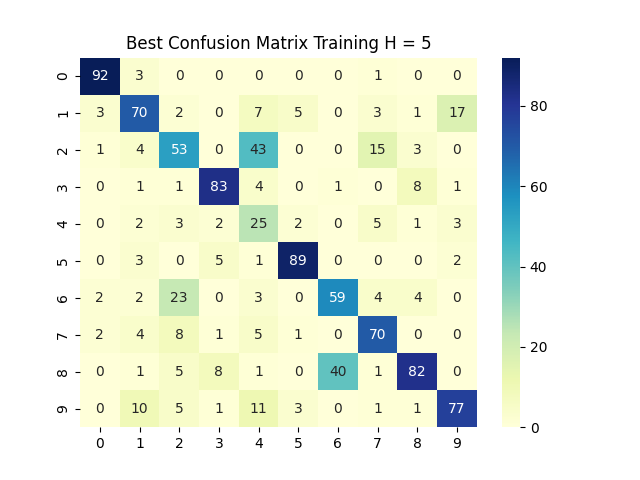
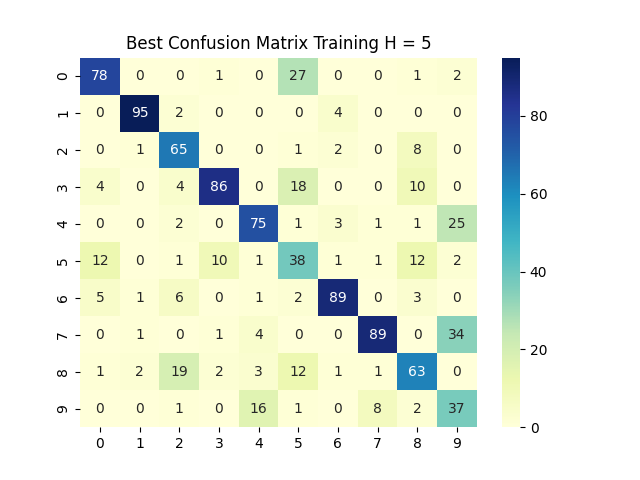
Oh my bug...

diff --git a/HW3/multi_layer.py b/HW3/multi_layer.py
@@ -37,7 +37,7 @@ def accuracy_confusion_matrix(x):
 
 
 def one_hot_encode(y):
-    return np.transpose(np.eye(10)[y-1])
+    return np.transpose(np.eye(10)[y])
 
 
 def one_hot_decode(y):
@@ -140,6 +140,8 @@ for H in Hs:
                 for i in range(K):
                     summa += (r_t[i] - y_matrix[instance][i])*v_matrix[h,i]
                 delta_w_matrix[:,h] = learning_rate*summa*z[h+1]*(1-z[h+1])*x_t
+                # delta_w_matrix[:,h] = learning_rate*np.dot((r_t - y_matrix[instance]),np.transpose(v_matrix[h,:]))*z[h+1]*(1-z[h+1])*x_t
+                # not sure about this line so I will comment it out
             
             for i in range(K):
                 v_matrix[:,i] += delta_v_matrix[:,i]
@@ -193,9 +195,9 @@ for H in Hs:
         confusion_matrix_test     = np.zeros((K,K))
 
         for t in range(N):
-            confusion_matrix_training[np.argmax(y_matrix[t])][R.iloc[t]-1] += 1
+            confusion_matrix_training[np.argmax(y_matrix[t])][R.iloc[t]] += 1
         for t in range(N_test):
-            confusion_matrix_test[np.argmax(y_matrix_test[t])][R_test.iloc[t]-1] += 1
+            confusion_matrix_test[np.argmax(y_matrix_test[t])][R_test.iloc[t]] += 1
 
         accuracy_training = accuracy_confusion_matrix(confusion_matrix_training)
         accuracy_test     = accuracy_confusion_matrix(confusion_matrix_test)

diff --git a/HW3/single_layer.py b/HW3/single_layer.py
@@ -28,7 +28,7 @@ def softmax(x):
     return e_x / e_x.sum()
    
 def one_hot_encode(y):
-    return np.transpose(np.eye(10)[y-1])
+    return np.transpose(np.eye(10)[y])
 
 def accuracy_confusion_matrix(x):
     correct = 0
@@ -134,9 +134,9 @@ for epochs in range(E):
     confusion_matrix_test = np.zeros((K,K))
 
     for t in range(N):
-        confusion_matrix_training[np.argmax(y_matrix[t]),R.iloc[t]-1]       += 1
+        confusion_matrix_training[np.argmax(y_matrix[t]),R.iloc[t]]       += 1
     for t in range(N_test):
-        confusion_matrix_test[np.argmax(y_matrix_test[t]),R_test.iloc[t]-1] += 1
+        confusion_matrix_test[np.argmax(y_matrix_test[t]),R_test.iloc[t]] += 1
 
     accuracy_training = accuracy_confusion_matrix(confusion_matrix_training)
     accuracy_test     = accuracy_confusion_matrix(confusion_matrix_test)
